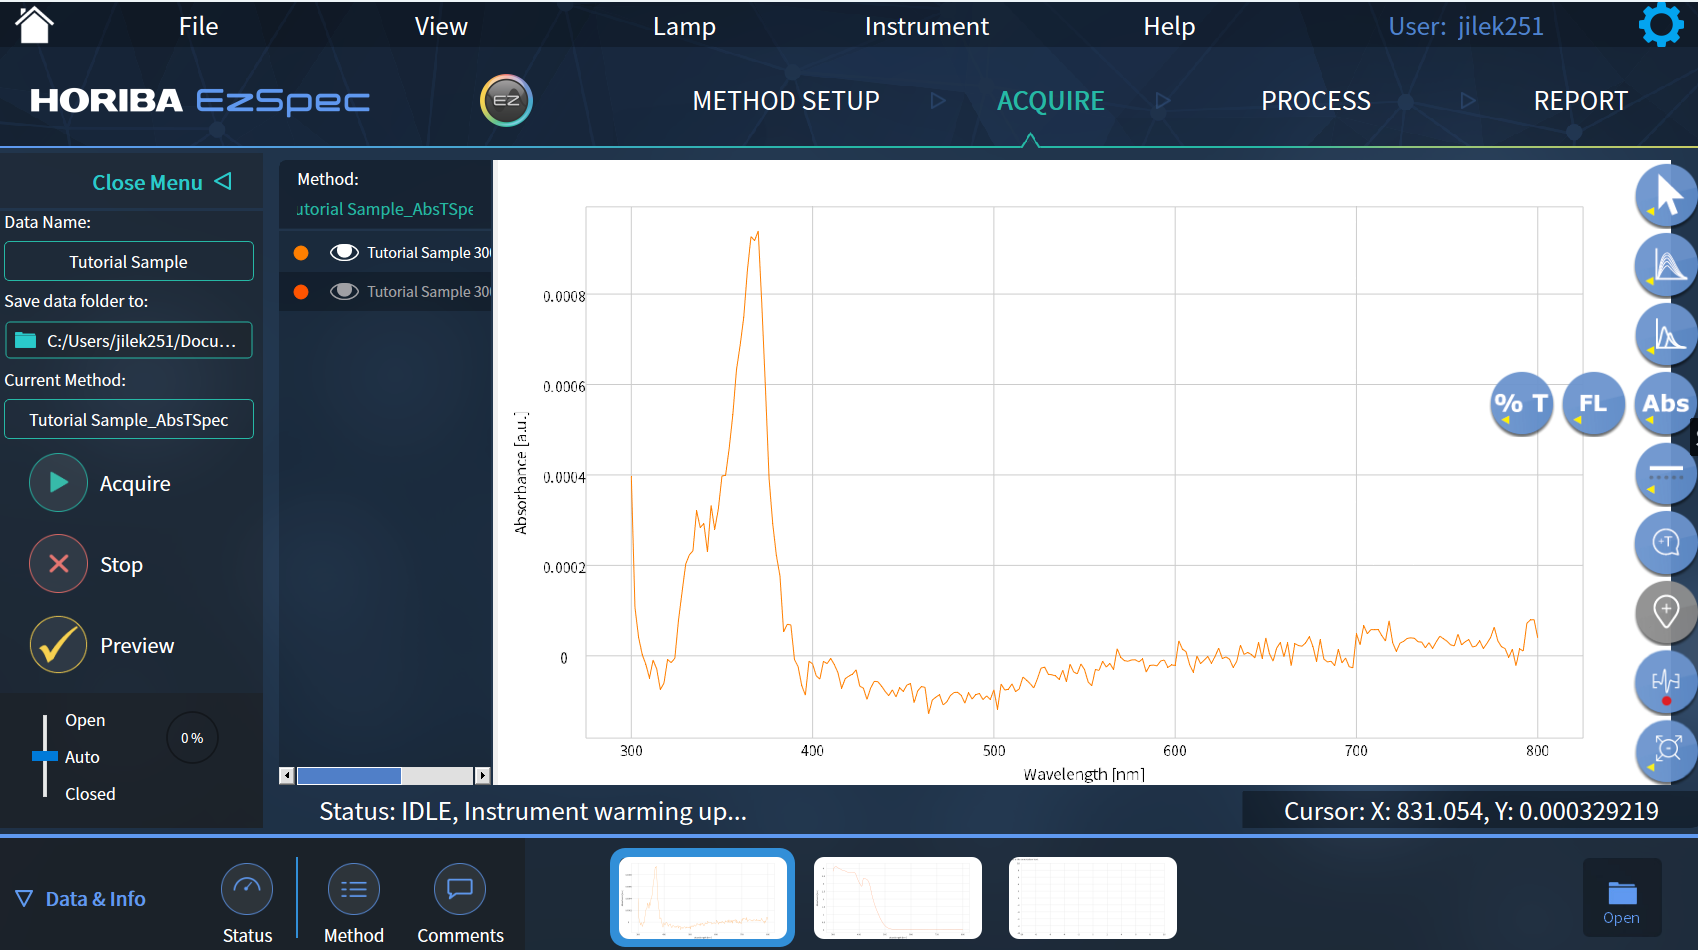
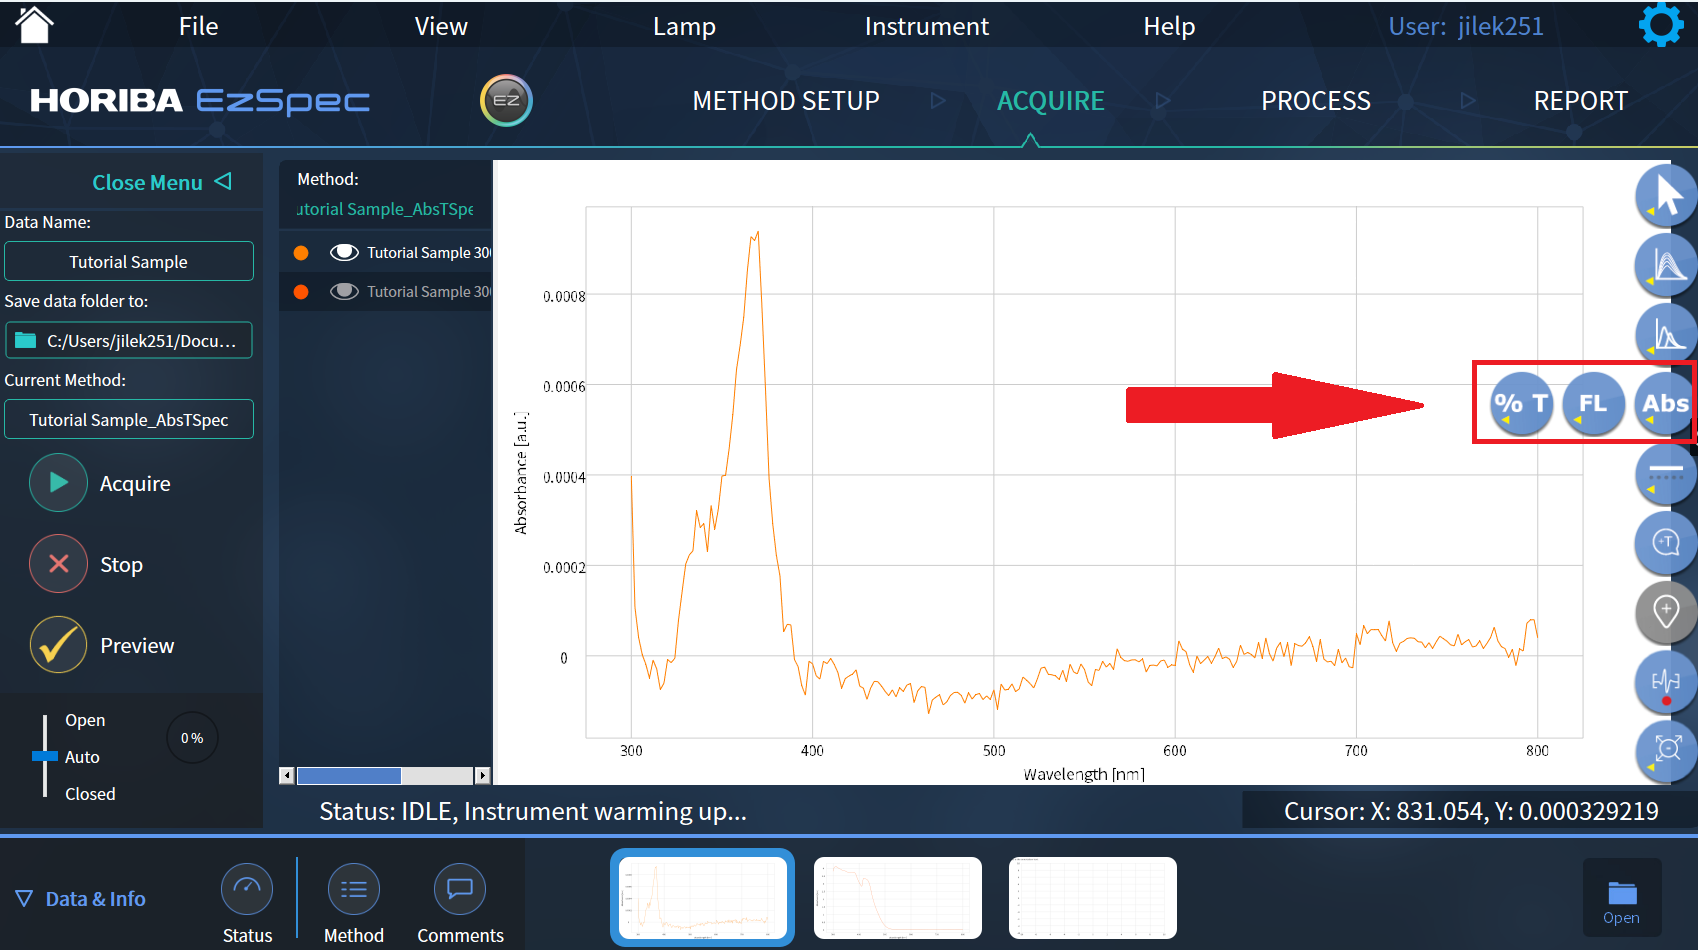
editing imagex in uv-vis

Changed region(s): [[0.874, 0.3663, 1.0, 0.4884], [0.6555, 0.3968, 0.8428, 0.4579]]

diff --git a/tutorials/uv-vis.md b/tutorials/uv-vis.md
@@ -21,12 +21,30 @@ Matches info/image for instrument on lab page
     * Click spectra
     * Make sure the setup conditions are adequate.
     * Set mode to both
+
+<figure>
+	<a href="../assets/img/tutorials/uv-vis/Both.png" target="_parent"><img src="../assets/img/tutorials/uv-vis/Both.png" alt="Select both"></a>
+	<figcaption>  </figcaption>
+</figure>
+
     * Fill the cuvet with your sample
     * Name your sample and choose where you want it to save
     * Click acquire 
+
+<figure>
+	<a href="../assets/img/tutorials/uv-vis/Acquire.png" target="_parent"><img src="../assets/img/tutorials/uv-vis/Acquire.png" alt="Select both"></a>
+	<figcaption>  </figcaption>
+</figure>
+
     * Load your sample and close the top
     * Load a sample of deionized water when the software instructs you to load a blank
     * Toggle between absorption and transmission spectra in the menus on the right
+
+<figure>
+	<a href="../assets/img/tutorials/uv-vis/Absorbance.png" target="_parent"><img src="../assets/img/tutorials/uv-vis/Absorbance.png" alt="Select both"></a>
+	<figcaption>  </figcaption>
+</figure>
+
     * Unload sample of water
 * Shut down
     * Push and hold power button until light shuts off. Finite lamp hours,__SHUT IT OFF__
